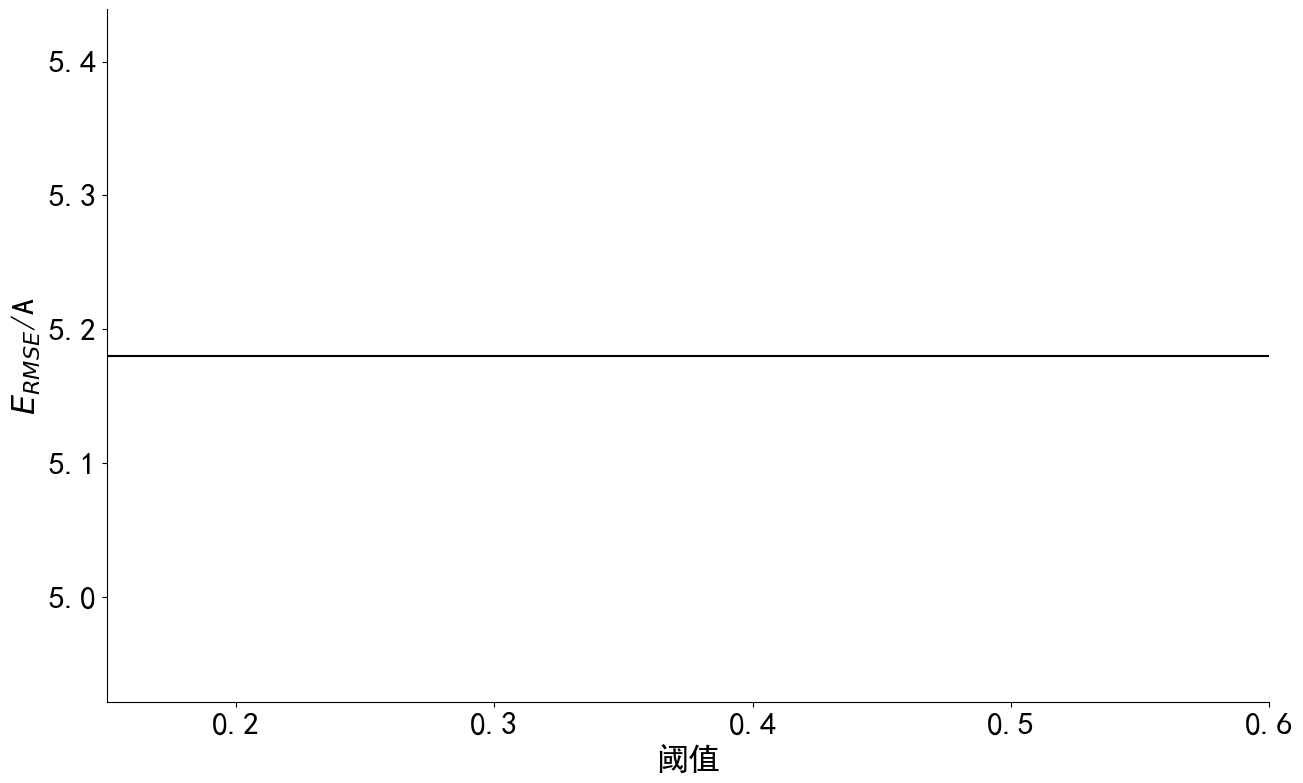
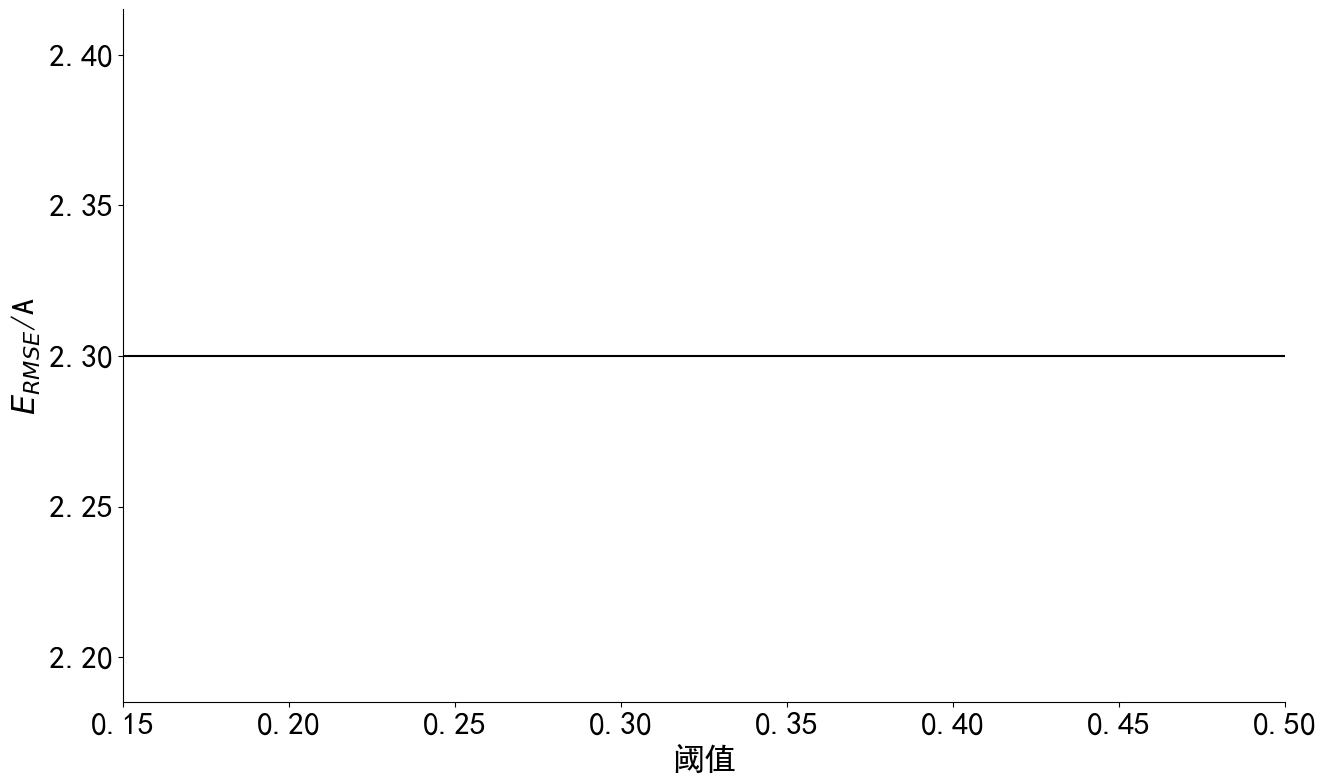
add picture and add algorithm

diff --git a/missingData.py b/missingData.py
@@ -268,7 +268,7 @@ def get_value_fill():
     train_x, train_y = create_dataset(data_train.values, look_back)
 
     rmse_all = []
-    value_list = list(np.arange(0.15, 0.61, 0.01))
+    value_list = list(np.arange(0.15, 0.51, 0.01))
 
     for ratio in missing_ratio:
         rmse_list = []
@@ -283,7 +283,7 @@ def get_value_fill():
             lost_index = get_lost_index(data_cut)
 
             # 利用自己的knn
-            knn2 = defKnn.KNNClassifier(7, value)
+            knn2 = defKnn.KNNClassifier(13, value)
             knn2.fit(train_x, train_y)
 
             rmse = 0
@@ -301,35 +301,35 @@ def get_value_fill():
                     rmse += pow(val-data_test.iloc[j]['y'], 2)
 
             mre_list.append(float('%.2f' % (mre / sum)))
-            rmse_list.append(float('%.2f' % math.sqrt(rmse/sum)))
+            rmse_list.append(float('%.2f' % (math.sqrt(rmse/sum))))
 
         if len(rmse_all) == 0:
             rmse_all = rmse_list
         else:
             rmse_all = [i + j for i, j in zip(rmse_all, rmse_list)]
 
-        plt.figure(figsize=(15, 9))
-        plt.rcParams['font.sans-serif'] = ['SimHei']  # 显示中文标签
-        plt.rcParams['axes.spines.top'] = False  # 去掉顶部轴，必须放在plot之前
-        plt.rcParams['axes.spines.right'] = False  # 去掉右部轴
-        plt.tick_params(labelsize=23)
-        plt.autoscale(enable=True, axis='x', tight=True)  # 去掉坐标边缘的留白
-        plt.autoscale(enable=True, axis='y', tight=True)  # 去掉坐标边缘的留白
-        plt.plot(np.array(value_list), rmse_list, 'black')
-        plt.xlabel("阈值", size=23)
-        plt.ylabel('${E_{RMSE}}$/A', size=23)
-        ax = plt.gca()
-        plt.savefig(r'picture\(自适应)缺失率='+str(ratio)+'_RMSE.png',
-                    format='png',
-                    bbox_inches='tight',
-                    transparent=True)
+        # plt.figure(figsize=(15, 9))
+        # plt.rcParams['font.sans-serif'] = ['SimHei']  # 显示中文标签
+        # plt.rcParams['axes.spines.top'] = False  # 去掉顶部轴，必须放在plot之前
+        # plt.rcParams['axes.spines.right'] = False  # 去掉右部轴
+        # plt.tick_params(labelsize=23)
+        # plt.autoscale(enable=True, axis='x', tight=True)  # 去掉坐标边缘的留白
+        # plt.autoscale(enable=True, axis='y', tight=True)  # 去掉坐标边缘的留白
+        # plt.plot(np.array(value_list), rmse_list, 'black')
+        # plt.xlabel("阈值", size=23)
+        # plt.ylabel('${E_{RMSE}}$/A', size=23)
+        # ax = plt.gca()
+        # plt.savefig(r'picture\(自适应)缺失率='+str(ratio)+'_RMSE.png',
+        #             format='png',
+        #             bbox_inches='tight',
+        #             transparent=True)
         # plt.show()
         # plt.close()
         print('(自适应)缺失率=' + str(ratio) + '_RMSE.png 已完成')
     plt.figure(figsize=(15, 9))
     plt.tick_params(labelsize=23)
-    plt.plot(np.array(value_list).astype(dtype=np.str), rmse_all, 'black')
-    plt.xlabel("K值", size=23)
+    plt.plot(np.array(value_list), rmse_all, 'black')
+    plt.xlabel("阈值", size=23)
     plt.ylabel('${E_{RMSE}}$/A', size=23)
     plt.savefig(r'picture\(自适应)缺失率汇总_RMSE.png',
                 format='png',
@@ -387,11 +387,12 @@ def fill_missing_data():
         mre_list.append(float(mre / sum))
         rmse_list.append(float(math.sqrt(rmse/sum)))
 
+        data_fill_plt = data_fill.copy()
         plt.figure(figsize=(15, 9))
         plt.plot([(str(d)).replace('T', ' ')[5:16] for d in list(data_test.index.values)],
-                 data_test['y'].values, "black", linewidth=4, linestyle='-', label='真实值')
+                 data_test['y'].values, "black",  linestyle='-', label='真实值')
         plt.plot([(str(d)).replace('T', ' ')[5:16] for d in list(data_fill_plt.index.values)],
-                 data_fill_plt['y'].values, "black", linewidth=2, linestyle='--', label='填补值')
+                 data_fill_plt['y'].values, "black", linestyle='--', label='填补值')
         plt.gca().xaxis.set_major_locator(ticker.MultipleLocator(200))  # 设置刻度密度
         plt.tick_params(labelsize=23)
         plt.autoscale(enable=True, axis='x', tight=True)  # 去掉坐标边缘的留白

diff --git a/defKnn.py b/defKnn.py
@@ -37,21 +37,26 @@ class KNNClassifier:
         """给定单个待预测的数据x,返回x_predict的预测结果值"""
 
         # 先判断x是合法的
-        assert x.shape[0] == self._x_train.shape[1],\
+        assert x.shape[0] == self._x_train.shape[1], \
             "the feature number of x must be equal to X_train"
         # 计算新来的数据与整个训练数据的距离
         distances = [sqrt(np.sum((x_train - x)**2)) for x_train in self._x_train]
 
         nearest = np.argsort(distances)  # 对距离排序并返回对应的索引
+        # for i in nearest[:self.k]:
+        #     print(distances[i])
+        temp_k = self.k
         if value is not None:
-            for i in nearest[:self.k]:
-                if distances[i] > value:
-                    self.k = i
+            for i, index in enumerate(nearest[:self.k]):
+                if distances[index] > value:
+                    temp_k = i
                     if i == 0:
-                        self.k = 1
+                        temp_k = 1
                     break
-        topK_y = [self._y_train[i].tolist() for i in nearest[:self.k]]  # 返回最近的k个距离对应的分类
-        topK_x = [self._x_train[i].tolist() for i in nearest[:self.k]]
+        # print("k={0}".format(self.k))
+        # print("---------------")
+        topK_y = [self._y_train[i].tolist() for i in nearest[:temp_k]]  # 返回最近的k个距离对应的分类
+        topK_x = [self._x_train[i].tolist() for i in nearest[:temp_k]]
 
         cof = self._grc(topK_x, x)
         self._grc_cof += np.sum(cof)
